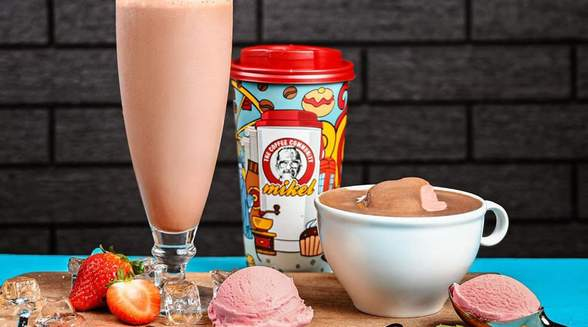
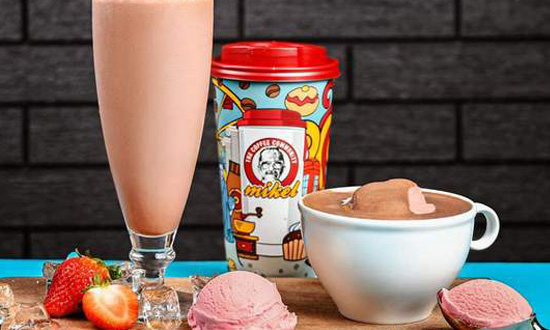
Image links changed.

diff --git a/FoodDeliveryApp.Infrastructure/Migrations/20240327131055_ImageLinkChanged.cs b/FoodDeliveryApp.Infrastructure/Migrations/20240327131055_ImageLinkChanged.cs
@@ -1,0 +1,29 @@
+using Microsoft.EntityFrameworkCore.Migrations;
+
+#nullable disable
+
+namespace FoodDeliveryApp.Infrastructure.Migrations
+{
+    public partial class ImageLinkChanged : Migration
+    {
+        protected override void Up(MigrationBuilder migrationBuilder)
+        {
+            migrationBuilder.UpdateData(
+                table: "Restaurants",
+                keyColumn: "Id",
+                keyValue: 1,
+                column: "BackgroundImage",
+                value: "~/images/Amerikanska/BurgerKing/BurgerKingBackground.jpg");
+        }
+
+        protected override void Down(MigrationBuilder migrationBuilder)
+        {
+            migrationBuilder.UpdateData(
+                table: "Restaurants",
+                keyColumn: "Id",
+                keyValue: 1,
+                column: "BackgroundImage",
+                value: "~/images/Amerikanska/BurgerKing/BurgerKingBackground.jfif");
+        }
+    }
+}

diff --git a/FoodDeliveryApp.Infrastructure/Migrations/20240327131055_ImageLinkChanged.Designer.cs b/FoodDeliveryApp.Infrastructure/Migrations/20240327131055_ImageLinkChanged.Designer.cs
@@ -4,6 +4,7 @@ using FoodDeliveryApp.Infrastructure.Data;
 using Microsoft.EntityFrameworkCore;
 using Microsoft.EntityFrameworkCore.Infrastructure;
 using Microsoft.EntityFrameworkCore.Metadata;
+using Microsoft.EntityFrameworkCore.Migrations;
 using Microsoft.EntityFrameworkCore.Storage.ValueConversion;
 
 #nullable disable
@@ -11,9 +12,10 @@ using Microsoft.EntityFrameworkCore.Storage.ValueConversion;
 namespace FoodDeliveryApp.Infrastructure.Migrations
 {
     [DbContext(typeof(FoodDeliveryAppDbContext))]
-    partial class ApplicationDbContextModelSnapshot : ModelSnapshot
+    [Migration("20240327131055_ImageLinkChanged")]
+    partial class ImageLinkChanged
     {
-        protected override void BuildModel(ModelBuilder modelBuilder)
+        protected override void BuildTargetModel(ModelBuilder modelBuilder)
         {
 #pragma warning disable 612, 618
             modelBuilder

diff --git a/FoodDeliveryApp.Infrastructure/Data/Configuration/RestaurantConfiguration.cs b/FoodDeliveryApp.Infrastructure/Data/Configuration/RestaurantConfiguration.cs
@@ -20,7 +20,7 @@ namespace FoodDeliveryApp.Infrastructure.Data.Configuration
                 Longitude = 23.353460,
                 ServiceFee = 3.99m,
                 DeliveryTime = "30-40 мин.",
-                BackgroundImage = "~/images/Amerikanska/BurgerKing/BurgerKingBackground.jfif",
+                BackgroundImage = "~/images/Amerikanska/BurgerKing/BurgerKingBackground.jpg",
                 RestaurantCategoryId = 2,
             },
 
